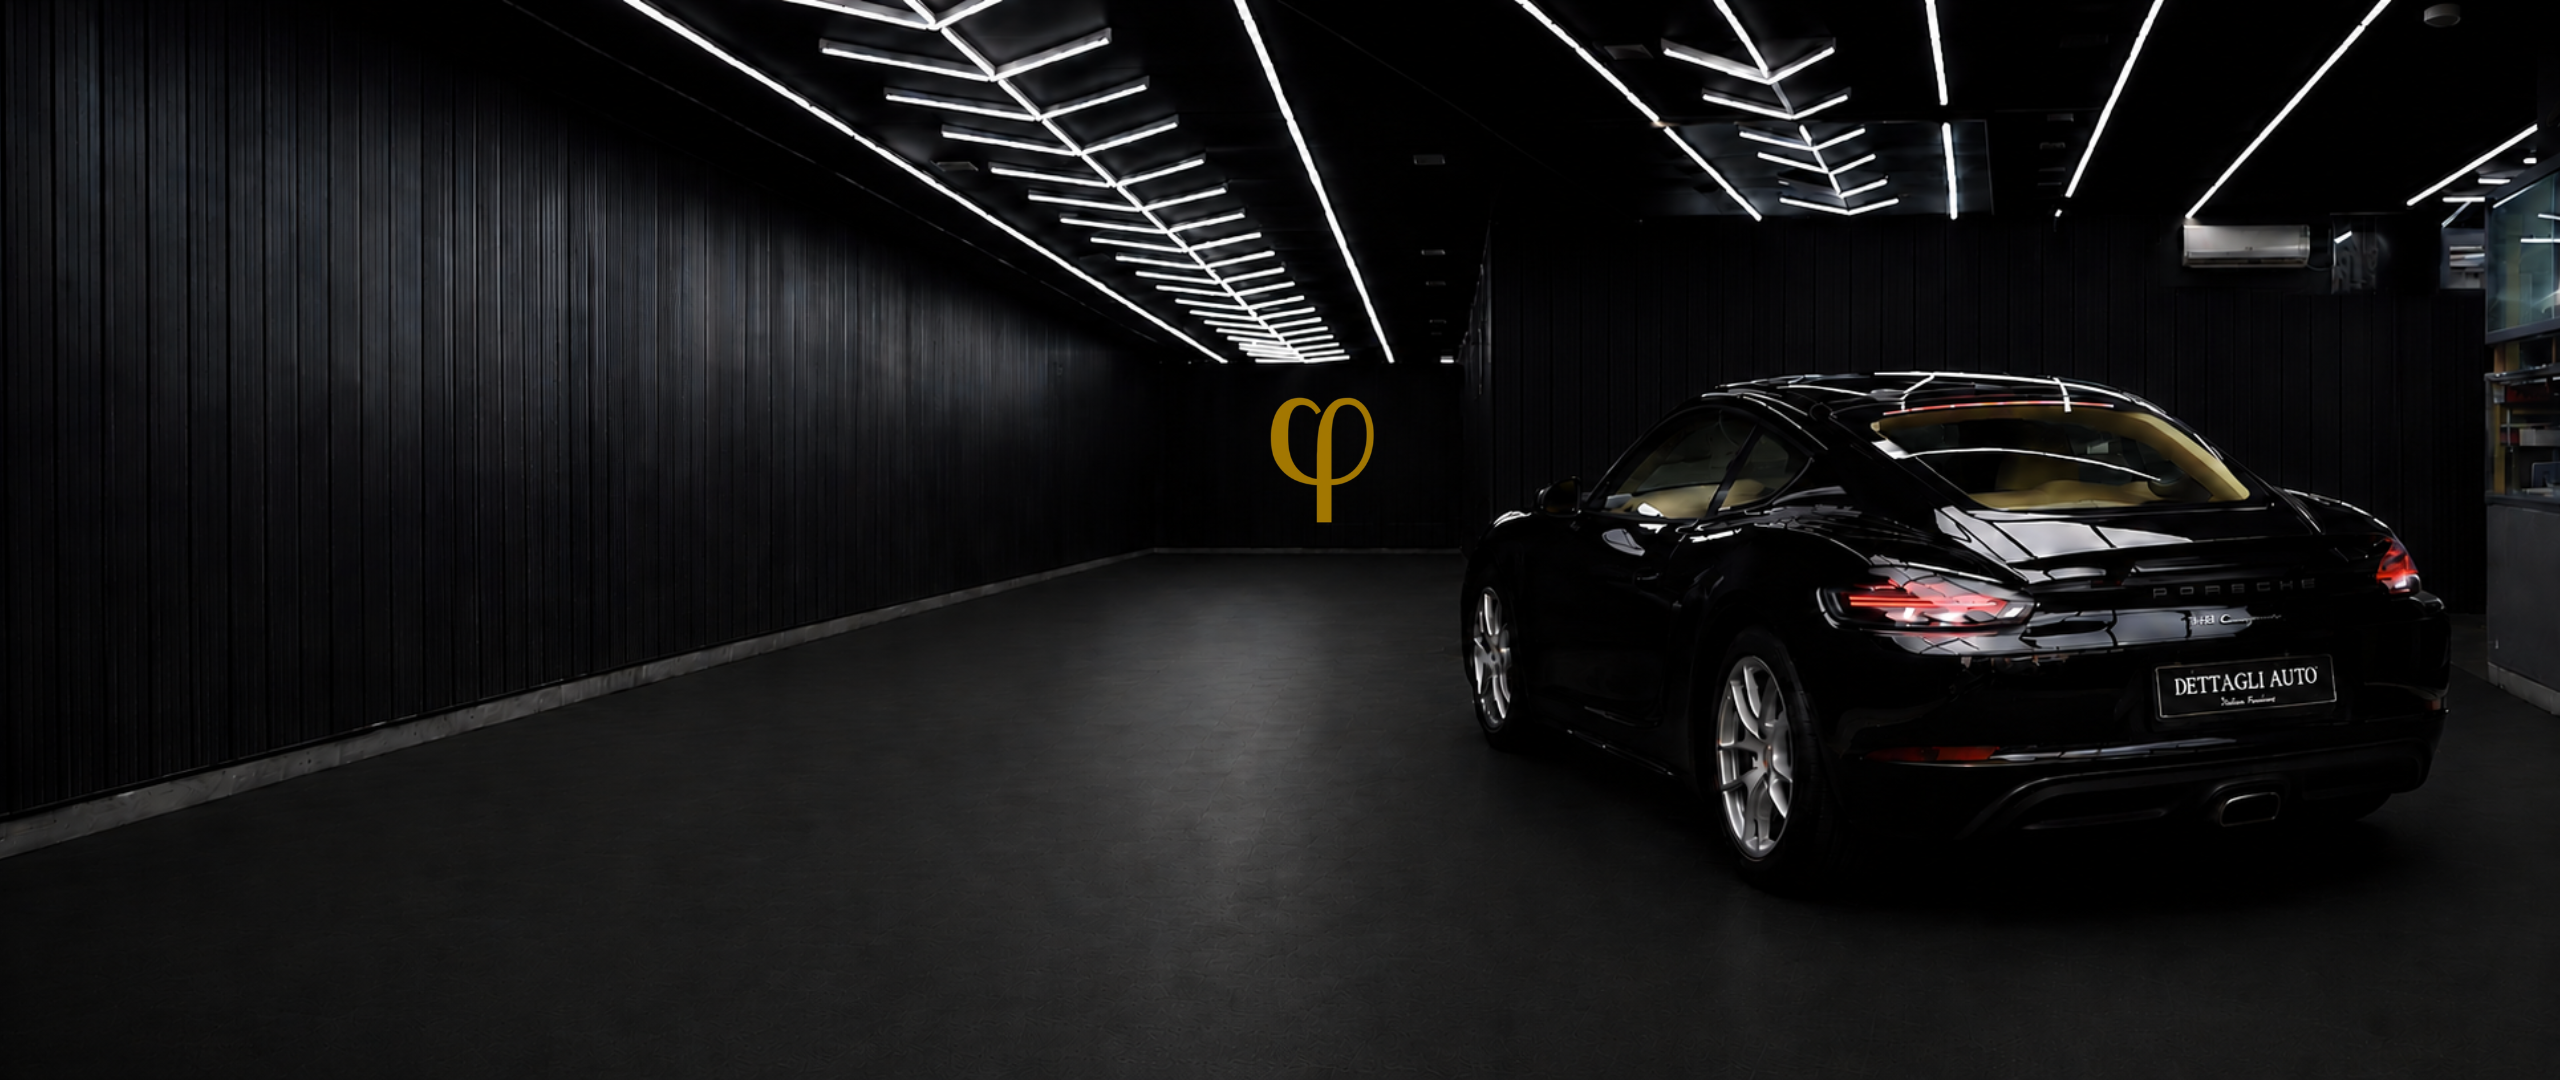
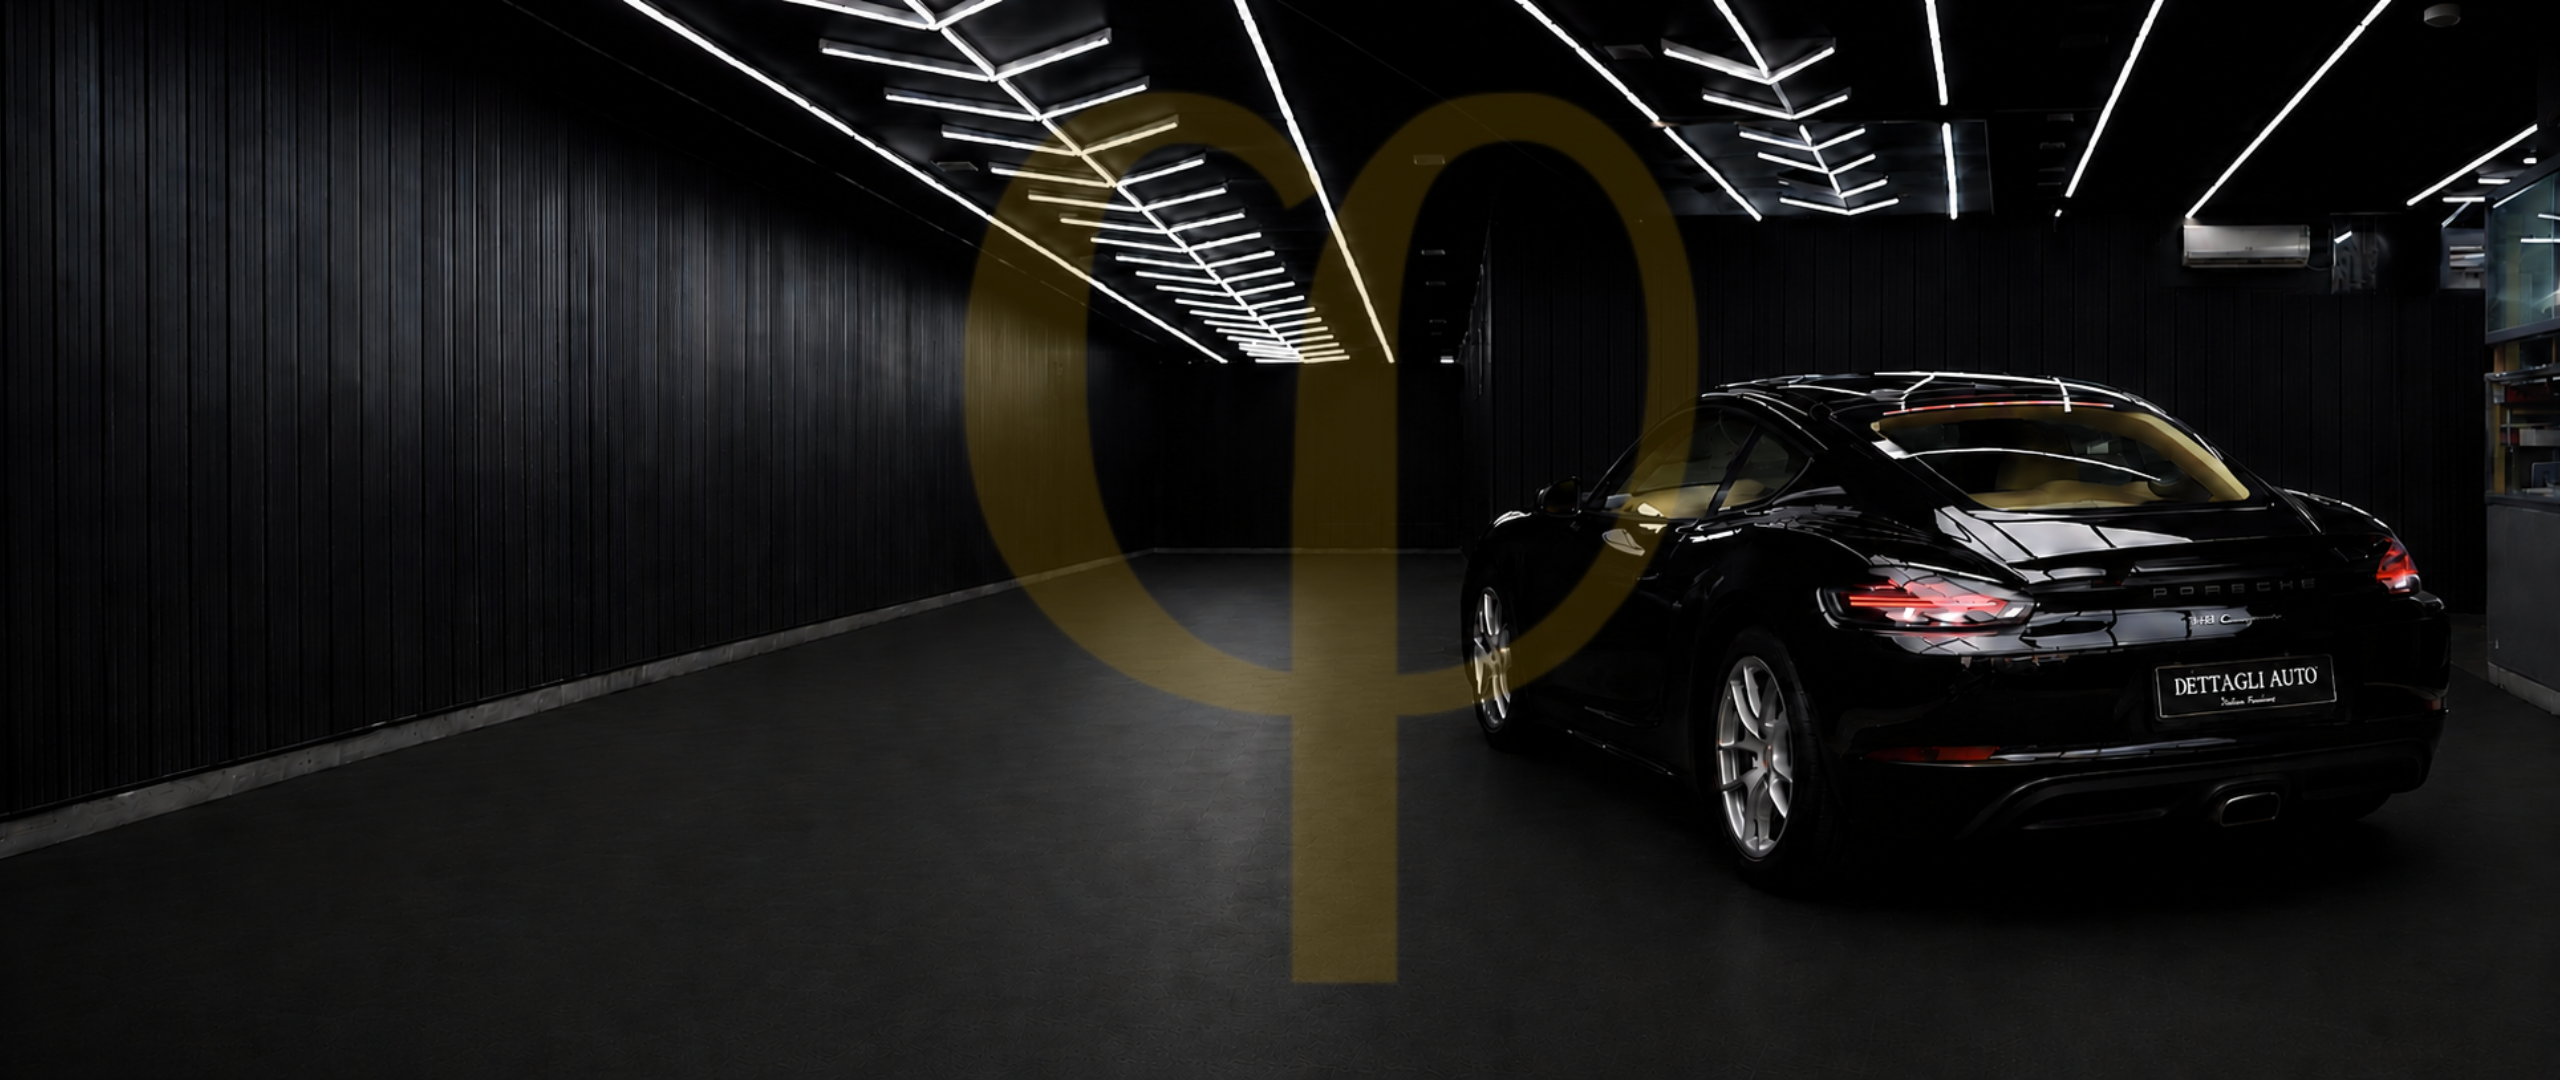
update

Changed region(s): [[0.375, 0.0611, 0.6875, 0.9167]]

diff --git a/frontend/src/components/home/Home.jsx b/frontend/src/components/home/Home.jsx
@@ -351,42 +351,6 @@ export default function Hero() {
         }}
       >
         <div className="hero-inner" style={{ maxWidth: 580 }}>
-          {/* Eyebrow */}
-          <div
-            className="hero-eyebrow"
-            style={{
-              display: "flex",
-              alignItems: "center",
-              gap: 12,
-              marginBottom: 18,
-              opacity: 0,
-              animation: "fadeUp 0.7s ease-out 0.1s forwards",
-            }}
-          >
-            <span
-              style={{
-                width: 36,
-                height: 1,
-                background: "#8C8C8C",
-                display: "block",
-                flexShrink: 0,
-              }}
-            />
-            <span
-              style={{
-                fontFamily: "'DM Sans', sans-serif",
-                fontSize: 11,
-                fontWeight: 600,
-                fontStyle: "italic",
-                letterSpacing: "0.28em",
-                textTransform: "uppercase",
-                color: "#8C8C8C",
-              }}
-            >
-              Studio di &amp; Detailing e Prestazioni
-            </span>
-          </div>
-
           {/* H1 */}
           <h1
             style={{
@@ -403,10 +367,10 @@ export default function Hero() {
                 WebkitTextStroke: "2px rgba(255,255,255,0.85)",
               }}
             >
-              EVERY CAR HAS
+               L’arte della perfezione 
             </span>
             <span style={{ color: "#F0F0F0", display: "block" }}>
-              A FINISH IT WAS
+              su ogni dettaglio
             </span>
           </h1>
 
@@ -425,8 +389,7 @@ export default function Hero() {
               animation: "fadeUp 0.75s ease-out 0.54s forwards",
             }}
           >
-            From ceramic coating to full restoration, body kits to remapped
-            performance — we bring out the car underneath the car.
+            From precision-cut Paint Protection Film (PPF) to complete restorations, bespoke body kits, and precision performance remapping—we redefine automotive excellence, one detail at a time.
           </p>
 
           {/* Stats — desktop row */}
@@ -459,40 +422,6 @@ export default function Hero() {
           </div>
         </div>
       </div>
-
-      {/* Scroll cue */}
-      <Link
-        to="/about"
-        aria-label="Scroll to next section"
-        style={{
-          position: "absolute",
-          bottom: 28,
-          left: "50%",
-          transform: "translateX(-50%)",
-          zIndex: 3,
-          display: "flex",
-          flexDirection: "column",
-          alignItems: "center",
-          gap: 7,
-          textDecoration: "none",
-          opacity: 0,
-          animation: "fadeIn 1s ease-out 1.4s forwards",
-        }}
-      >
-        <span
-          style={{
-            fontFamily: "'DM Sans', sans-serif",
-            fontSize: 9.5,
-            fontWeight: 600,
-            letterSpacing: "0.25em",
-            textTransform: "uppercase",
-            color: "rgba(255,255,255,0.28)",
-          }}
-        >
-          Scroll
-        </span>
-        <div className="hero-scroll-line" />
-      </Link>
     </section>
   );
 }

diff --git a/frontend/src/components/layouts/Header.jsx b/frontend/src/components/layouts/Header.jsx
@@ -402,14 +402,22 @@ export default function Header() {
 
           {/* Right: Phone + mobile buttons */}
           <div className="flex items-center gap-[clamp(6px,1.5vw,12px)] flex-shrink-0">
-            <div className="hidden xl:flex items-center gap-[clamp(6px,1vw,10px)]">
-              {/* First Number */}
+            {/* Full numbers with flags — shown from lg (1024px) up so there is no
+                dead zone between the icon-only mobile button and this block */}
+            <div className="hidden lg:flex items-center gap-[clamp(5px,0.8vw,10px)]">
+              {/* First Number — Oman */}
               <a
                 href="tel:[phone redacted]"
-                className="flex items-center gap-2.5 no-underline"
+                className="flex items-center gap-1.5 no-underline"
               >
+                <img
+                  src="https://flagcdn.com/w40/om.png"
+                  srcSet="https://flagcdn.com/w80/om.png 2x"
+                  alt="Oman flag"
+                  className="w-[clamp(16px,1.2vw,20px)] h-auto rounded-[2px] flex-shrink-0 ring-1 ring-white/15"
+                />
                 <div className="leading-[1.2]">
-                  <div className="text-[clamp(12.5px,1vw,15px)] font-bold text-white tracking-[0.03em] whitespace-nowrap">
+                  <div className="text-[clamp(11.5px,0.9vw,15px)] font-bold text-white tracking-[0.03em] whitespace-nowrap">
                     080-77976595
                   </div>
                 </div>
@@ -418,13 +426,19 @@ export default function Header() {
               {/* Vertical Divider */}
               <div className="w-px h-[22px] bg-white/25 flex-shrink-0" />
 
-              {/* Second Number */}
+              {/* Second Number — India */}
               <a
                 href="tel:[phone redacted]"
-                className="flex items-center gap-2.5 no-underline"
+                className="flex items-center gap-1.5 no-underline"
               >
+                <img
+                  src="https://flagcdn.com/w40/in.png"
+                  srcSet="https://flagcdn.com/w80/in.png 2x"
+                  alt="India flag"
+                  className="w-[clamp(16px,1.2vw,20px)] h-auto rounded-[2px] flex-shrink-0 ring-1 ring-white/15"
+                />
                 <div className="leading-[1.2]">
-                  <div className="text-[clamp(12.5px,1vw,15px)] font-bold text-white tracking-[0.03em] whitespace-nowrap">
+                  <div className="text-[clamp(11.5px,0.9vw,15px)] font-bold text-white tracking-[0.03em] whitespace-nowrap">
                     [phone redacted]
                   </div>
                 </div>
@@ -602,22 +616,39 @@ export default function Header() {
                     );
                   })}
 
-                  <motion.a
-                    href="tel:[phone redacted]"
-                    className="mt-3.5 flex items-center gap-2.5 bg-[#1A1A1A] border border-[#3D3D3D] rounded-lg px-3.5 py-2.5 no-underline"
+                  <motion.div
+                    className="mt-3.5 flex flex-col gap-2"
                     variants={drawerItemVariants}
                   >
-                    <div>
-                      <span className="text-[12px] font-bold text-white tracking-[0.03em]">
+                    <a
+                      href="tel:[phone redacted]"
+                      className="flex items-center gap-2.5 bg-[#1A1A1A] border border-[#3D3D3D] rounded-lg px-3.5 py-2.5 no-underline"
+                    >
+                      <img
+                        src="https://flagcdn.com/w40/om.png"
+                        srcSet="https://flagcdn.com/w80/om.png 2x"
+                        alt="Oman flag"
+                        className="w-5 h-auto rounded-[2px] flex-shrink-0 ring-1 ring-white/15"
+                      />
+                      <span className="text-[13px] font-bold text-white tracking-[0.03em]">
                         080-77976595
                       </span>
-                      ,
-                      <br/>
-                      <span className="text-[12px] font-bold text-white tracking-[0.03em]">
-                        [phone redacted]
+                    </a>
+                    <a
+                      href="tel:[phone redacted]"
+                      className="flex items-center gap-2.5 bg-[#1A1A1A] border border-[#3D3D3D] rounded-lg px-3.5 py-2.5 no-underline"
+                    >
+                      <img
+                        src="https://flagcdn.com/w40/in.png"
+                        srcSet="https://flagcdn.com/w80/in.png 2x"
+                        alt="India flag"
+                        className="w-5 h-auto rounded-[2px] flex-shrink-0 ring-1 ring-white/15"
+                      />
+                      <span className="text-[13px] font-bold text-white tracking-[0.03em]">
+                        [phone redacted]
                       </span>
-                    </div>
-                  </motion.a>
+                    </a>
+                  </motion.div>
                 </motion.nav>
               </motion.div>
             </React.Fragment>

diff --git a/frontend/src/components/home/Services.jsx b/frontend/src/components/home/Services.jsx
@@ -8,7 +8,7 @@ const SERVICES = [
     title: "PPF ",
     desc: "Paint protection that keeps the shine permanent. Our nano-ceramic technology bonds to your paintwork at a molecular level, delivering hydrophobic protection that lasts years.",
     tag: "Protection",
-    img: "https://images.pexels.com/photos/20042056/pexels-photo-20042056.jpeg",
+    img: "https://i.pinimg.com/1200x/19/75/c7/1975c7fb0f3eabefe04c43ee9961571e.jpg",
   },
   {
     id: 2,
@@ -48,7 +48,7 @@ const SERVICES = [
     title: "Exhaust",
     desc: "Exhaust cleaning and restoration. We remove soot, rust and corrosion to restore the original colour and function of your exhaust system.",
     tag: "Maintenance",
-    img: "https://images.pexels.com/photos/14217549/pexels-photo-14217549.jpeg",
+    img: "https://i.pinimg.com/1200x/24/83/67/248367677214e3b4b54659aa55b99235.jpg",
   },
   {
     id: 7,
@@ -56,7 +56,7 @@ const SERVICES = [
     title: " Paints",
     desc: "We use the highest quality paints and materials to ensure a perfect finish. We offer a range of services including paint correction, touch ups and full repaints.",
     tag: "Paint",
-    img: "https://images.pexels.com/photos/11139244/pexels-photo-11139244.jpeg",
+    img: "https://i.pinimg.com/736x/8d/f8/de/8df8decd8a3b119d19c7aa8f297db229.jpg",
   },
   {
     id: 8,
@@ -64,7 +64,7 @@ const SERVICES = [
     title: "Refurbish ",
     desc: "We offer a range of services including paint correction, touch ups and full repaints.",
     tag: "Refurbish",
-    img: "https://images.pexels.com/photos/10894207/pexels-photo-10894207.jpeg",
+    img: "https://i.pinimg.com/736x/ae/62/34/ae6234302e5c7bc85492acdcf8e7cd57.jpg",
   },
   {
     id: 9,
@@ -72,7 +72,7 @@ const SERVICES = [
     title: "Ceramic Coating",
     desc: "We offer a range of services including paint correction, touch ups and full repaints.",
     tag: "Ceramic Coating",
-    img: "https://images.pexels.com/photos/20051458/pexels-photo-20051458.jpeg",
+    img: "https://i.pinimg.com/736x/d6/97/76/d697762ffcff69f3a22f97dfb29a7a2b.jpg",
   },
 ];
 

diff --git a/frontend/src/components/home/About.jsx b/frontend/src/components/home/About.jsx
@@ -381,11 +381,6 @@ export default function About() {
                 transition={{ duration: 1.3, ease: [0.4, 0, 0.2, 1], delay: 0.2 }}
               />
 
-              <div className="da-imgtag">
-                <span className="da-imgtag-dot" />
-                <span className="da-imgtag-text">Est. 2020 — Sheikh Yasir</span>
-              </div>
-
               <div className="da-badge">
                 <svg className="da-badge-spin" viewBox="0 0 68 68">
                   <defs>